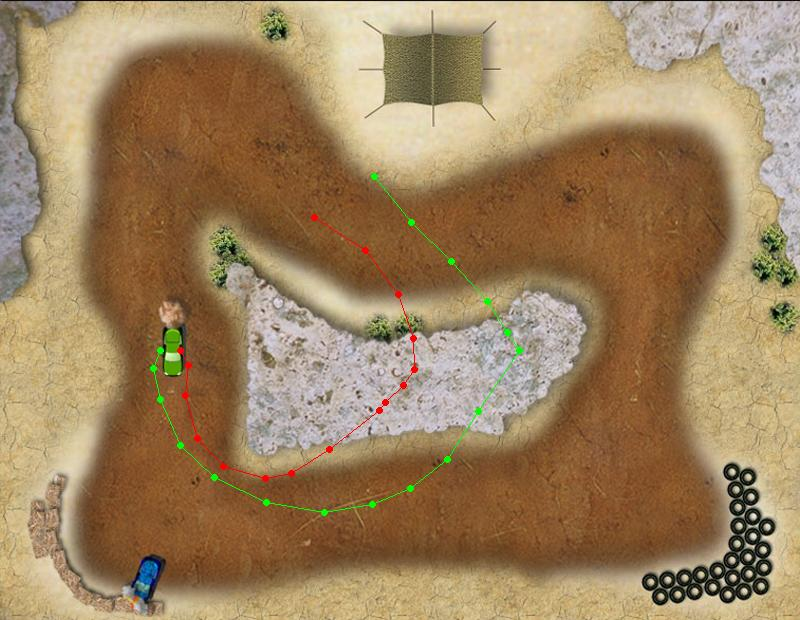
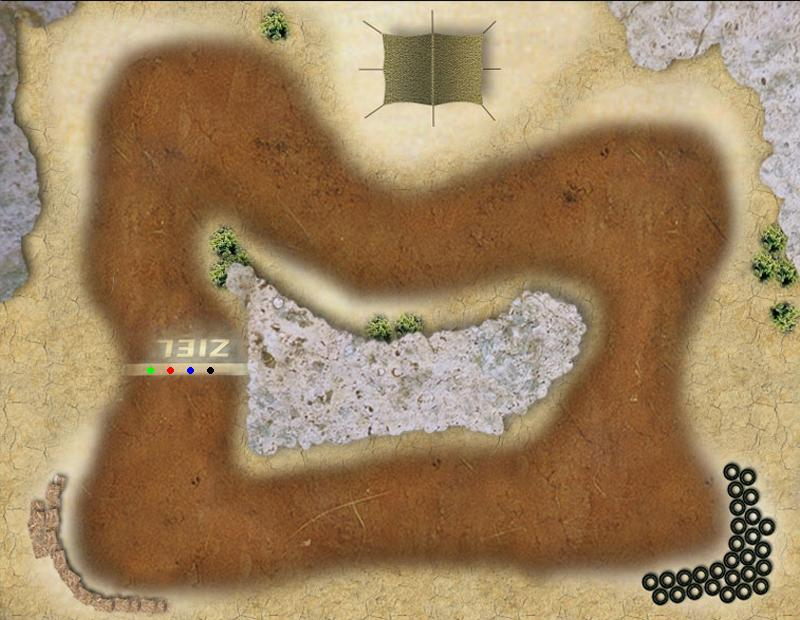
still working on the prototype

diff --git a/zeitgeist/applications/lineracer/prototype/game_index.tpl.html b/zeitgeist/applications/lineracer/prototype/game_index.tpl.html
@@ -1,0 +1,64 @@
+<!DOCTYPE html PUBLIC "-//W3C//DTD XHTML 1.0 Transitional//EN" "http://www.w3.org/TR/xhtml1/DTD/xhtml1-transitional.dtd">
+<html xmlns="http://www.w3.org/1999/xhtml"><!-- InstanceBegin template="/Templates/lineracer.dwt" codeOutsideHTMLIsLocked="false" -->
+<head>
+<meta http-equiv="Content-Type" content="text/html; charset=utf-8" />
+<!-- InstanceBeginEditable name="doctitle" -->
+<title>Lineracer</title>
+
+<!-- InstanceEndEditable -->
+
+<link rel="stylesheet" type="text/css" href="@@{templatepath}@@/css/lineracer.css" />
+
+<script language="javascript" type="text/javascript">
+
+
+</script>
+	
+<!-- InstanceBeginEditable name="head" -->
+<!-- InstanceEndEditable -->
+</head>
+
+<body>
+
+	<!-- TemplateBeginBlock name="usermessage" -->
+		<h3 class="usermessage"><img src="@@{templatepath}@@/nuvola/16x16/actions/ok.png" alt="" align="left" style="margin-right:5px;" /> @@{usermessage}@@</h3>
+	<!-- TemplateEndBlock -->
+
+	<!-- TemplateBeginBlock name="userwarnings" -->
+		<h3 class="userwarning"><img src="@@{templatepath}@@/nuvola/16x16/actions/messagebox_info.png" alt="" align="left" style="margin-right:5px;" /> @@{userwarning}@@</h3>
+	<!-- TemplateEndBlock -->
+
+	<!-- TemplateBeginBlock name="usererrors" -->
+		<h3 class="usererror"><img src="@@{templatepath}@@/nuvola/16x16/actions/no.png" alt="" align="left" style="margin-right:5px;" /> @@{usererror}@@</h3>
+	<!-- TemplateEndBlock -->
+
+	<h1>Lineracer</h1>
+
+
+<!-- InstanceBeginEditable name="body" -->
+
+<div spry:region="dsGamedata">
+	<div spry:state="ready">
+		<table cellpadding="0" cellspacing="0" border="0" style="margin-left:100px;">
+		<tr>
+		<td valign="top">
+		<p><a href="reset.php">Spiel resetten</a></p>
+		</td></tr>
+		</table>
+	</div>
+</div>
+
+<form action="move.php" method="post">
+	<table cellpadding="0" cellspacing="0" border="0" style="margin-left:100px;">
+	<tr>
+		<td colspan="2">
+			<input type="hidden" name="submit" value="1" />
+			<input type="image" src="../data/circuits/circuit1_game.jpg" name="position" style="border:20px solid @@{bgcolor}@@;">
+		</td>
+	</table>
+</form>
+
+<!-- InstanceEndEditable -->
+
+</body>
+<!-- InstanceEnd --></html>

diff --git a/zeitgeist/applications/lineracer/classes/lrgamefunctions.class.php b/zeitgeist/applications/lineracer/classes/lrgamefunctions.class.php
@@ -36,17 +36,40 @@ class lrGamefunctions
 
 		$currentGamedata['activePlayer'] = $row['race_activeplayer'];
 
-		if ($row['race_player4'] != '') $currentGamedata['numPlayers'] = 4;
-			elseif ($row['race_player3'] != '') $currentGamedata['numPlayers'] = 3;
-			elseif ($row['race_player2'] != '') $currentGamedata['numPlayers'] = 2;
-			else $currentGamedata['numPlayers'] = 1;
+		$player = array();
+		$currentGamedata['players'] = array();
+		$currentGamedata['numPlayers'] = 0;
+		if ($row['race_player4'] != '')
+		{
+			$currentGamedata['numPlayers'] = 4;
+			$player[$row['race_player4']] = 4;
+			$currentGamedata['players'][4] = $row['race_player4'];
+		}
+		
+		if ($row['race_player3'] != '')
+		{
+			if ($currentGamedata['numPlayers'] == 0) $currentGamedata['numPlayers'] = 3;
+			$player[$row['race_player3']] = 3;
+			$currentGamedata['players'][3] = $row['race_player3'];
+		}
 
-		$currentGamedata['moves'][$row['race_player1']] = array();
-		$currentGamedata['moves'][$row['race_player2']] = array();
-		$currentGamedata['moves'][$row['race_player3']] = array();
-		$currentGamedata['moves'][$row['race_player4']] = array();
-			
-		$sql = "SELECT * FROM race_moves WHERE move_race='" . $raceid . "'";
+		if ($row['race_player2'] != '')
+		{
+			if ($currentGamedata['numPlayers'] == 0) $currentGamedata['numPlayers'] = 2;
+			$player[$row['race_player2']] = 2;
+			$currentGamedata['players'][2] = $row['race_player2'];
+		}
+
+		if ($currentGamedata['numPlayers'] == 0) $currentGamedata['numPlayers'] = 1;
+		$player[$row['race_player1']] = 1;
+		$currentGamedata['players'][1] = $row['race_player1'];
+
+		$currentGamedata['moves'][$player[$row['race_player1']]] = array();
+		$currentGamedata['moves'][$player[$row['race_player2']]] = array();
+		$currentGamedata['moves'][$player[$row['race_player3']]] = array();
+		$currentGamedata['moves'][$player[$row['race_player4']]] = array();
+
+		$sql = "SELECT * FROM race_moves WHERE move_race='" . $raceid . "' ORDER BY move_id";
 		$res = $this->database->query($sql);
 
 		while($row = $this->database->fetchArray($res))
@@ -58,45 +81,28 @@ class lrGamefunctions
 			}
 		}
 
-			
-/*
-		for ($i=1; $i<=$currentGamedata['numPlayers']; $i++)
-		{
-			$positionString = $row['racedata_position'.$i];
-			$positionsArray = explode(';', $positionString);
-
-			$startPosition = explode(',', $row['circuit_startposition']);
-			$moves[0] = $startPosition[0]+($i*20);
-			$moves[1] = $startPosition[1];
-			$currentGamedata['players'][$i]['moves'] = array($moves);
-
-			if ($positionsArray[0] != '')
-			{
-				foreach($positionsArray as $move)
-				{
-					$movePosition = explode(',', $move);
-					$currentGamedata['players'][$i]['moves'][] = array($movePosition[0], $movePosition[1]);
-				}
-			}
-
-			$currentGamedata['players'][$i]['movecount'] = count($currentGamedata['players'][$i]['moves']);
-
-			$currentVector = $row['racedata_vector'.$i];
-			$currentVector = explode(',', $currentVector);
-			if (is_array($currentVector))
-			{
-				$currentGamedata['players'][$i]['vector'][0] = $currentVector[0];
-				$currentGamedata['players'][$i]['vector'][1] = $currentVector[1];
-			}
-			else
-			{
-				$currentGamedata['players'][$i]['vector'][0] = 0;
-				$currentGamedata['players'][$i]['vector'][1] = 1;
-			}
-		}
-*/
 		$this->debug->unguard($currentGamedata);
 		return $currentGamedata;
+	}
+	
+	public function move($raceid, $newX, $newY)
+	{
+		$this->debug->guard();
+		
+		$gamestates = $this->getGamestates($raceid);
+		$currentPlayer = $gamestates['players'][$gamestates['activePlayer']];
+		
+		$sql = "INSERT INTO race_moves(move_race, move_user, move_action, move_parameter) VALUES('" . $raceid . "', '" . $currentPlayer . "', '1', '" . $newX . "," . $newY . "')";
+		$res = $this->database->query($sql);
+
+		$gamestates['activePlayer']++;
+		if ($gamestates['activePlayer'] > 4) $gamestates['activePlayer'] = 1;
+		
+		$sql = "UPDATE races SET race_activeplayer='" . $gamestates['activePlayer'] . "'  WHERE race_id='" . $raceid . "'";
+		$res = $this->database->query($sql);
+		
+		$this->debug->unguard(true);
+		return true;
 	}
 	
 /*

diff --git a/zeitgeist/applications/lineracer/prototype/classes/prototyperenderer.class.php b/zeitgeist/applications/lineracer/prototype/classes/prototyperenderer.class.php
@@ -28,12 +28,9 @@ class prototypeRenderer
 	{
 
 		$gamefunctions = new lrGamefunctions();
-		$gamestates = $gamefunctions->getGamestates(1);
+		$currentGamedata = $gamefunctions->getGamestates($race_id);
 		
-		var_dump($gamestates);
-
-/*
-		$circuit = imagecreatefromjpeg('data/circuits/circuit1.jpg');
+		$circuit = imagecreatefromjpeg('../data/circuits/circuit1.jpg');
 		if (!$circuit) die('1');
 
 		$colorBlack = imagecolorallocate($circuit, 0, 0, 0);
@@ -46,17 +43,13 @@ class prototypeRenderer
 //		$gamefunctions = new lrGamefunctions;
 //		$currentGamedata = $gamefunctions->getGamestates();
 
-		$sql = "SELECT * FROM racedata rd LEFT JOIN races r ON rd.racedata_race = r.race_id LEFT JOIN circuits c ON r.race_circuit = c.circuit_id WHERE rd.racedata_id='1'";
-		$res = $database->query($sql);
-		$row = $database->fetchArray($res);
-
 		for ($j=1; $j<=$currentGamedata['numPlayers']; $j++)
 		{
 			if ($j == 1) $currentColor = $colorGreen;
 			if ($j == 2) $currentColor = $colorRed;
 			if ($j == 3) $currentColor = $colorBlue;
 			if ($j == 4) $currentColor = $colorBlack;
-
+/*
 			$positionString = $row['racedata_position'.$j];
 			$positionsArray = explode(';', $positionString);
 
@@ -73,17 +66,21 @@ class prototypeRenderer
 					$currentMoves[] = array($movePosition[0], $movePosition[1]);
 				}
 			}
+//*/
 
-			for($i=0; $i<count($currentMoves); $i++)// as $index => $move)
+			$currentMoves = $currentGamedata['moves'][$j];
+			
+			for ($i=0; $i<count($currentMoves); $i++)// as $index => $move)
 			{
 				imagefilledellipse($circuit, $currentMoves[$i][0], $currentMoves[$i][1], 6, 6, $currentColor);
 				if ($i > 0) imageline($circuit, $currentMoves[$i-1][0], $currentMoves[$i-1][1], $currentMoves[$i][0], $currentMoves[$i][1], $currentColor);
 			}
+//*/			
 		}
 
-		$ret = imagejpeg($circuit, 'testdata/circuit1_game.jpg');
+		$ret = imagejpeg($circuit, '../data/circuits/circuit1_game.jpg');
 		imagedestroy($circuit);
-*/
+
 	}
 
 }

diff --git a/zeitgeist/applications/lineracer/prototype/reset.php b/zeitgeist/applications/lineracer/prototype/reset.php
@@ -35,12 +35,24 @@
 	$error = zgErrorhandler::init();
 	$user = zgUserhandler::init();
 	$eventhandler = new zgEventhandler();
+	$database = new zgDatabase();
+	$database->connect();
 
 	// load configuration
 	$configuration->loadConfiguration('lineracer', '../configuration/lineracer.ini');
 
-	$gamefunctions = new lrGamefunctions();
-	$move = $gamefunctions->move(1, $_POST['position_x'], $_POST['position_y']);
+	$sql = "TRUNCATE TABLE race_moves";
+	$res = $database->query($sql);
+	$sql = "INSERT INTO race_moves(move_race, move_user, move_action, move_parameter) VALUES('1', '1', '1', '150,370')";
+	$res = $database->query($sql);
+	$sql = "INSERT INTO race_moves(move_race, move_user, move_action, move_parameter) VALUES('1', '2', '1', '170,370')";
+	$res = $database->query($sql);
+	$sql = "INSERT INTO race_moves(move_race, move_user, move_action, move_parameter) VALUES('1', '3', '1', '190,370')";
+	$res = $database->query($sql);
+	$sql = "INSERT INTO race_moves(move_race, move_user, move_action, move_parameter) VALUES('1', '4', '1', '210,370')";
+	$res = $database->query($sql);
+	$sql = "UPDATE races SET race_activeplayer='1' WHERE race_id='1'";
+	$res = $database->query($sql);
 
 	$tpl = new lrTemplate();
 	$tpl->redirect('127.0.0.1/lineracer/prototype/game.php');

diff --git a/zeitgeist/applications/lineracer/prototype/game.php b/zeitgeist/applications/lineracer/prototype/game.php
@@ -21,7 +21,7 @@
 	if (!defined('APPLICATION_ROOTDIRECTORY')) define('APPLICATION_ROOTDIRECTORY', './prototype');
 	include('../zeitgeist/zeitgeist.php');
 
-//	require_once('classes/lrtemplate.class.php');
+	require_once('../classes/lrtemplate.class.php');
 //	require_once('classes/lrpregamefunctions.class.php');
 	require_once('../classes/lrgamefunctions.class.php');
 //	require_once('classes/lruserfunctions.class.php');
@@ -40,10 +40,22 @@
 	$configuration->loadConfiguration('lineracer', '../configuration/lineracer.ini');
 
 	$gamefunctions = new lrGamefunctions();
+	$gamestates = $gamefunctions->getGamestates(1);
 	
 	$renderer = new prototypeRenderer();
 	$renderer->draw(1);
 
+	var_dump($gamestates);
+
+	$tpl = new lrTemplate();
+	$tpl->load('game_index.tpl.html');
+	
+	if ($gamestates['activePlayer'] == 1) $tpl->assign('bgcolor', '#00ff00');
+	elseif ($gamestates['activePlayer'] == 2) $tpl->assign('bgcolor', '#ff0000');
+	elseif ($gamestates['activePlayer'] == 3) $tpl->assign('bgcolor', '#0000ff');
+	else $tpl->assign('bgcolor', '#000000');
+	$tpl->show();
+		
 	$debug->loadStylesheet('debug.css');
 	$debug->showInnerLoops = true;
 	$debug->showMiscInformation();
